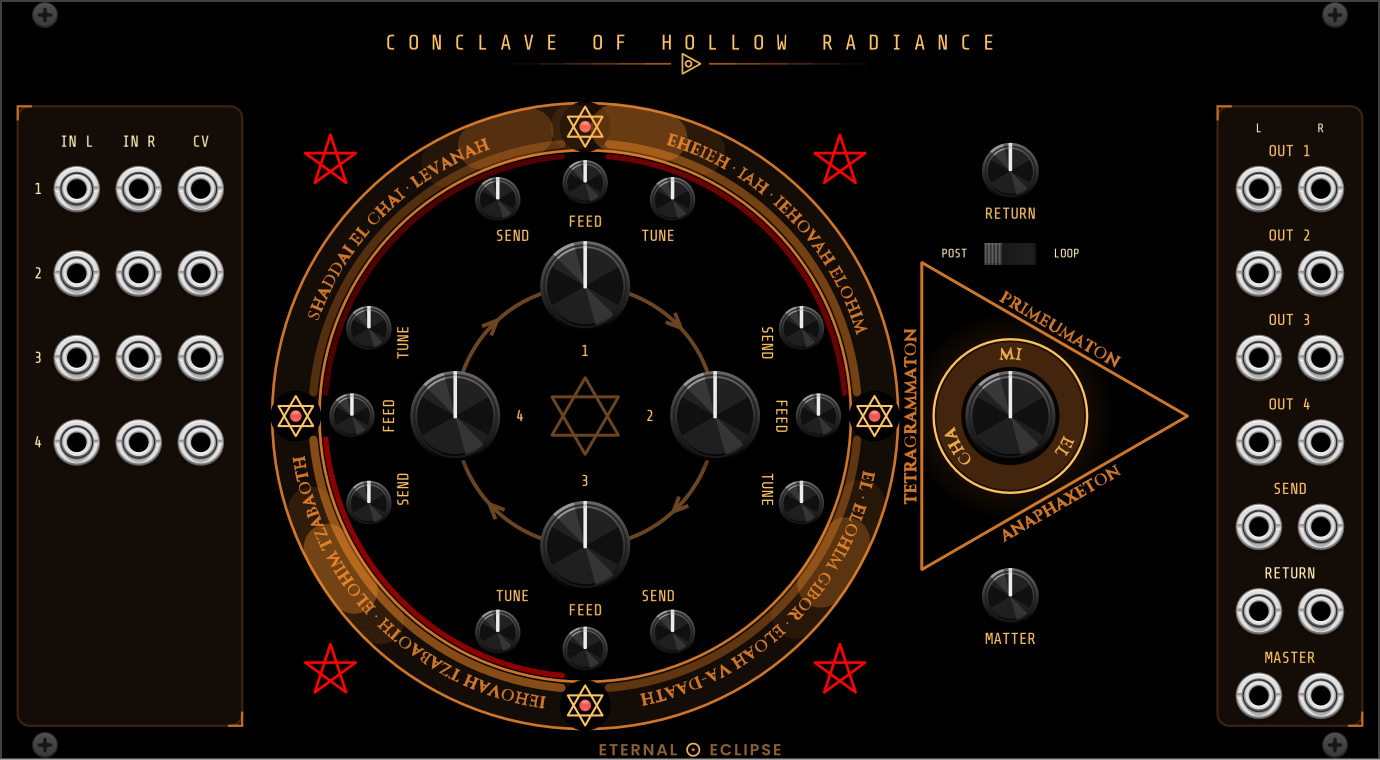
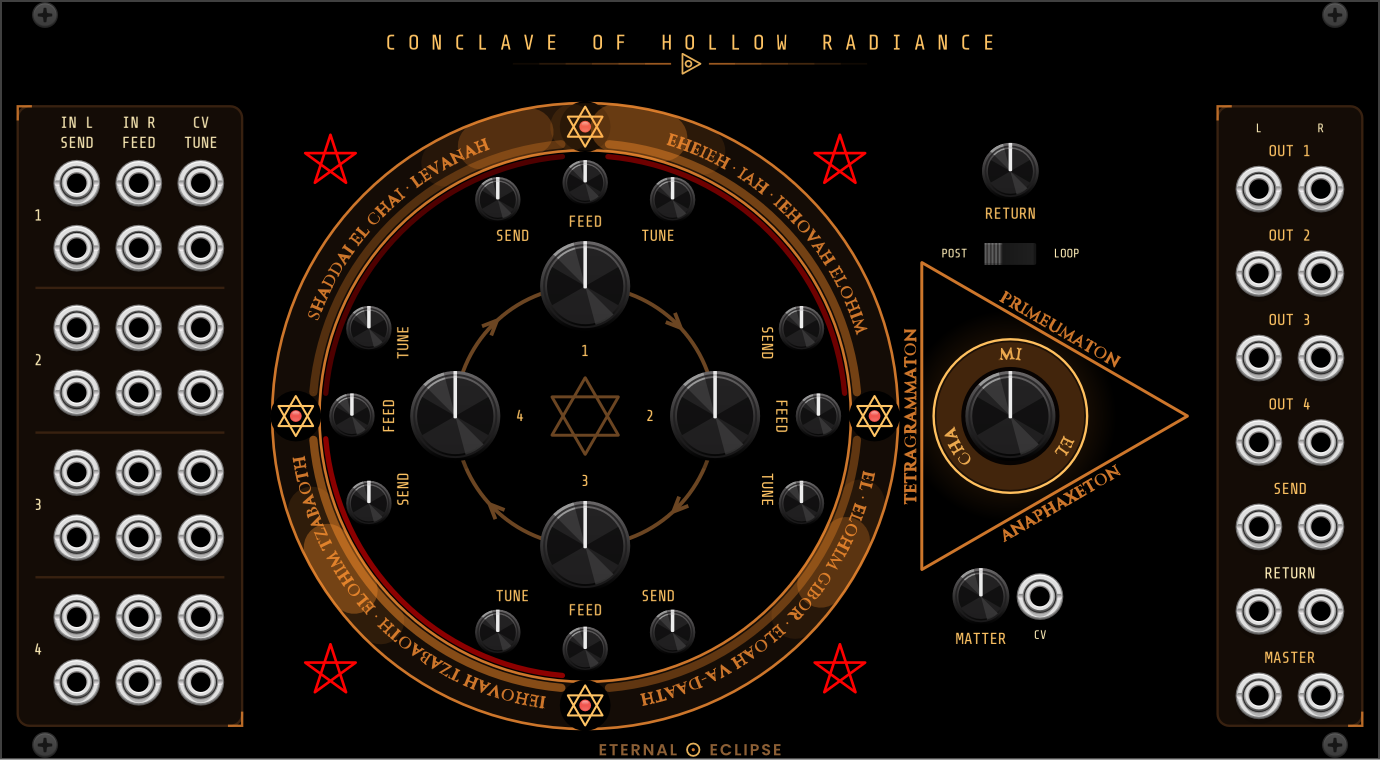
Conclave of Hollow Radiance: CV for SEND, FEED, TUNE and MATTER (OMN-102)
From Nick's first session with the module. Every channel gains three CV
inputs, SEND (10 V = full range), FEED (-5..+5 V sweeps the knob's whole
range) and TUNE (1 V/oct across the knob's 6.6 octaves), and MATTER gains
one (10 V = full range), read with the knobs once per block. The input bay
regroups by channel: IN L / IN R / level CV above, SEND / FEED / TUNE CV
below, a hairline between channels and the two header lines reading in
that order. The MATTER CV jack sits beside its knob under the Triangle.
README, changelog and the panel image follow.

Changed region(s): [[0.0312, 0.1513, 0.187, 0.9382], [0.6855, 0.7263, 0.779, 0.8474]]

diff --git a/src/ConclaveOfHollowRadiance/ConclaveOfHollowRadiance.cpp b/src/ConclaveOfHollowRadiance/ConclaveOfHollowRadiance.cpp
@@ -35,8 +35,12 @@ struct ConclaveOfHollowRadiance : Module {
 		ENUMS(INL_INPUTS, CHANNELS),
 		ENUMS(INR_INPUTS, CHANNELS),
 		ENUMS(CV_INPUTS, CHANNELS),
+		ENUMS(SEND_CV_INPUTS, CHANNELS),
+		ENUMS(FEED_CV_INPUTS, CHANNELS),
+		ENUMS(TUNE_CV_INPUTS, CHANNELS),
 		RETL_INPUT,
 		RETR_INPUT,
+		MATTER_INPUT,
 		INPUTS_LEN
 	};
 	enum OutputId {
@@ -88,6 +92,9 @@ struct ConclaveOfHollowRadiance : Module {
 			configInput(INL_INPUTS + n, ch + " left");
 			configInput(INR_INPUTS + n, ch + " right (normalled to left)");
 			configInput(CV_INPUTS + n, ch + " level CV (0-10 V)");
+			configInput(SEND_CV_INPUTS + n, ch + " send CV (10 V = full range)");
+			configInput(FEED_CV_INPUTS + n, ch + " feed CV (-5..+5 V = full range)");
+			configInput(TUNE_CV_INPUTS + n, ch + " tune CV (1 V/oct)");
 			configOutput(OUTL_OUTPUTS + n, ch + " left (unpatched: passes down the chain)");
 			configOutput(OUTR_OUTPUTS + n, ch + " right (unpatched: passes down the chain)");
 			configLight(FEED_LIGHTS + n, ch + " loop above unity");
@@ -98,6 +105,7 @@ struct ConclaveOfHollowRadiance : Module {
 		configParam(MASTER_PARAM, 0.f, 1.f, 1.f, "Master level", "%", 0.f, 100.f);
 		configInput(RETL_INPUT, "Return left");
 		configInput(RETR_INPUT, "Return right (normalled to left)");
+		configInput(MATTER_INPUT, "Matter CV (10 V = full range)");
 		configOutput(SENDL_OUTPUT, "Send left");
 		configOutput(SENDR_OUTPUT, "Send right");
 		configOutput(MASTERL_OUTPUT, "Master left (limited)");
@@ -111,16 +119,18 @@ struct ConclaveOfHollowRadiance : Module {
 		}
 	}
 
-	// Knob state the engine recomputes coefficients from (once per block)
+	// Knob and CV state the engine recomputes coefficients from (once per block)
 	conclave::CircleParams readParams() {
 		conclave::CircleParams p = circle.p;
+		const float octaves = std::log2(TUNE_MAX_HZ / TUNE_MIN_HZ); // the TUNE knob's span, for 1 V/oct
 		for (int n = 0; n < CHANNELS; n++) {
-			p.send[n] = params[SEND_PARAMS + n].getValue();
-			p.feed[n] = params[FEED_PARAMS + n].getValue() * FEED_MAX;
-			p.tuneHz[n] = TUNE_MIN_HZ * std::pow(TUNE_MAX_HZ / TUNE_MIN_HZ, params[TUNE_PARAMS + n].getValue());
+			p.send[n] = clamp(params[SEND_PARAMS + n].getValue() + inputs[SEND_CV_INPUTS + n].getVoltage() / 10.f, 0.f, 1.f);
+			p.feed[n] = clamp(params[FEED_PARAMS + n].getValue() + inputs[FEED_CV_INPUTS + n].getVoltage() / 5.f, -1.f, 1.f) * FEED_MAX;
+			float tune = clamp(params[TUNE_PARAMS + n].getValue() + inputs[TUNE_CV_INPUTS + n].getVoltage() / octaves, 0.f, 1.f);
+			p.tuneHz[n] = TUNE_MIN_HZ * std::pow(TUNE_MAX_HZ / TUNE_MIN_HZ, tune);
 			p.outPatched[n] = outputs[OUTL_OUTPUTS + n].isConnected() || outputs[OUTR_OUTPUTS + n].isConnected();
 		}
-		p.matter = params[MATTER_PARAM].getValue();
+		p.matter = clamp(params[MATTER_PARAM].getValue() + inputs[MATTER_INPUT].getVoltage() / 10.f, 0.f, 1.f);
 		p.ret = params[RETURN_PARAM].getValue();
 		p.loopReturn = params[LOOP_PARAM].getValue() > 0.5f;
 		p.master = params[MASTER_PARAM].getValue();
@@ -357,8 +367,10 @@ struct ConclaveOfHollowRadianceWidget : ModuleWidget {
 	static constexpr float R_NUMERAL = 11.f;            // channel numerals, inside the LEVEL knobs
 	static constexpr float R_TRIO_LABEL = 33.2f;        // the east and west clusters' turned labels
 	static constexpr float BAY_L_COL[3] = {13.f, 23.5f, 34.f};
+	static constexpr float BAY_L_ROW_A = 31.f, BAY_L_ROW_B = 42.f, BAY_L_GROUP = 24.5f; // a channel is two rows
 	static constexpr float BAY_R_COL[2] = {213.18f, 223.68f};
-	static constexpr float BAY_ROW0 = 32.f, BAY_STEP = 14.3f; // both bays share the row grid
+	static constexpr float BAY_ROW0 = 32.f, BAY_STEP = 14.3f;
+	static constexpr float MATTER_X = 166.1f, MATTER_CV_X = 176.1f, MATTER_Y = 101.f;
 
 	void addJack(float x, float y, int id, bool output) {
 		if (output)
@@ -415,20 +427,28 @@ struct ConclaveOfHollowRadianceWidget : ModuleWidget {
 		addParam(createParamCentered<eclipse::CKSSHorizontal>(mm2px(Vec(TRI_CX, 43.f)), module, ConclaveOfHollowRadiance::LOOP_PARAM));
 		eclipse::addLabel(this, Vec(TRI_CX - 9.5f, 43.f), "POST", eclipse::FINE_SIZE, eclipse::LABEL_COLOR);
 		eclipse::addLabel(this, Vec(TRI_CX + 9.5f, 43.f), "LOOP", eclipse::FINE_SIZE, eclipse::LABEL_COLOR);
-		addParam(createParamCentered<RoundBlackKnob>(mm2px(Vec(TRI_CX, 101.f)), module, ConclaveOfHollowRadiance::MATTER_PARAM));
-		eclipse::addLabel(this, Vec(TRI_CX, 101.f + 7.2f), "MATTER", eclipse::LABEL_SIZE, eclipse::ACCENT_COLOR);
+		addParam(createParamCentered<RoundBlackKnob>(mm2px(Vec(MATTER_X, MATTER_Y)), module, ConclaveOfHollowRadiance::MATTER_PARAM));
+		eclipse::addLabel(this, Vec(MATTER_X, MATTER_Y + 7.2f), "MATTER", eclipse::LABEL_SIZE, eclipse::ACCENT_COLOR);
+		addJack(MATTER_CV_X, MATTER_Y, ConclaveOfHollowRadiance::MATTER_INPUT, false);
+		eclipse::addLabel(this, Vec(MATTER_CV_X, MATTER_Y + 6.6f), "CV", eclipse::FINE_SIZE, eclipse::LABEL_COLOR);
 
-		// Input bay: IN L, IN R, CV per channel
-		eclipse::addLabel(this, Vec(BAY_L_COL[0], 24.f), "IN L", eclipse::LABEL_SIZE, eclipse::LABEL_COLOR);
-		eclipse::addLabel(this, Vec(BAY_L_COL[1], 24.f), "IN R", eclipse::LABEL_SIZE, eclipse::LABEL_COLOR);
-		eclipse::addLabel(this, Vec(BAY_L_COL[2], 24.f), "CV", eclipse::LABEL_SIZE, eclipse::LABEL_COLOR);
-		// Input rows share the output bay's grid, so IN 1 faces OUT 1 across the panel
+		// Input bay: each channel is two rows, IN L / IN R / level CV above
+		// and SEND / FEED / TUNE CV below; the two header lines read in that order
+		eclipse::addLabel(this, Vec(BAY_L_COL[0], 20.8f), "IN L", eclipse::LABEL_SIZE, eclipse::LABEL_COLOR);
+		eclipse::addLabel(this, Vec(BAY_L_COL[1], 20.8f), "IN R", eclipse::LABEL_SIZE, eclipse::LABEL_COLOR);
+		eclipse::addLabel(this, Vec(BAY_L_COL[2], 20.8f), "CV", eclipse::LABEL_SIZE, eclipse::LABEL_COLOR);
+		eclipse::addLabel(this, Vec(BAY_L_COL[0], 24.2f), "SEND", eclipse::LABEL_SIZE, eclipse::LABEL_COLOR);
+		eclipse::addLabel(this, Vec(BAY_L_COL[1], 24.2f), "FEED", eclipse::LABEL_SIZE, eclipse::LABEL_COLOR);
+		eclipse::addLabel(this, Vec(BAY_L_COL[2], 24.2f), "TUNE", eclipse::LABEL_SIZE, eclipse::LABEL_COLOR);
 		for (int n = 0; n < CHANNELS; n++) {
-			float y = BAY_ROW0 + n * BAY_STEP;
-			addJack(BAY_L_COL[0], y, ConclaveOfHollowRadiance::INL_INPUTS + n, false);
-			addJack(BAY_L_COL[1], y, ConclaveOfHollowRadiance::INR_INPUTS + n, false);
-			addJack(BAY_L_COL[2], y, ConclaveOfHollowRadiance::CV_INPUTS + n, false);
-			eclipse::addLabel(this, Vec(6.5f, y), string::f("%d", n + 1), eclipse::LABEL_SIZE, eclipse::LABEL_COLOR);
+			float ya = BAY_L_ROW_A + n * BAY_L_GROUP, yb = BAY_L_ROW_B + n * BAY_L_GROUP;
+			addJack(BAY_L_COL[0], ya, ConclaveOfHollowRadiance::INL_INPUTS + n, false);
+			addJack(BAY_L_COL[1], ya, ConclaveOfHollowRadiance::INR_INPUTS + n, false);
+			addJack(BAY_L_COL[2], ya, ConclaveOfHollowRadiance::CV_INPUTS + n, false);
+			addJack(BAY_L_COL[0], yb, ConclaveOfHollowRadiance::SEND_CV_INPUTS + n, false);
+			addJack(BAY_L_COL[1], yb, ConclaveOfHollowRadiance::FEED_CV_INPUTS + n, false);
+			addJack(BAY_L_COL[2], yb, ConclaveOfHollowRadiance::TUNE_CV_INPUTS + n, false);
+			eclipse::addLabel(this, Vec(6.5f, 0.5f * (ya + yb)), string::f("%d", n + 1), eclipse::LABEL_SIZE, eclipse::LABEL_COLOR);
 		}
 
 		// Output bay: the four direct outs, the send, the return, the master

diff --git a/tools/gen_conclave_panel.py b/tools/gen_conclave_panel.py
@@ -217,6 +217,10 @@ svg.append(glyph)
 svg.append("\n  <!-- Bays: inputs and level CV on the left; outs, loop and master on the right -->\n")
 svg.append(frame(BAY_L_X, BAY_L_W))
 svg.append(frame(BAY_R_X, BAY_R_W))
+# hairlines between the input bay's channel groups (two rows each; see the .cpp)
+for k in range(1, 4):
+    y = 31.0 + 24.5 * (k - 0.5) + 5.5   # midway between one group's lower row and the next group's upper row
+    svg.append(f'  <line x1="{f(BAY_L_X + 3)}" y1="{f(y)}" x2="{f(BAY_L_X + BAY_L_W - 3)}" y2="{f(y)}" stroke="{HAIR}" stroke-width="0.4"/>\n')
 svg.append(f'  <g fill="none" stroke="{COPPER}" stroke-width="0.4" stroke-opacity="0.9">\n')
 svg.append(brackets(BAY_L_X, BAY_L_W))
 svg.append(brackets(BAY_R_X, BAY_R_W))

diff --git a/README.md b/README.md
@@ -215,7 +215,9 @@ beads to the sunflower without firing a chord, and RUN holds everything in place
 
 A four-channel stereo mixer that is a plain mixer at rest and a feedback instrument
 when pushed. Each channel is a VCA: stereo IN (right normalled to left), a 0-10 V
-level CV, LEVEL, a post-fader SEND, and stereo OUT jacks. The channels are chained
+level CV, LEVEL, a post-fader SEND, and stereo OUT jacks, with CV inputs for SEND,
+FEED (-5 to +5 V sweeps the knob's range) and TUNE (1 V/oct) in the row beneath
+its audio inputs. The channels are chained
 the way Mutable's Veils chains its VCAs: an unpatched OUT passes the channel down
 into the next, and channel 4 falls into the master, so with nothing patched on the
 outs the master carries all four and patching an OUT takes that channel out of the
@@ -231,7 +233,8 @@ is off, and turning it sends that channel's chained output backward through a co
 into the channel before it, channel 1 into channel 4, so the circle only closes when
 every FEED is engaged. The comb is a short delay tuned by TUNE, 20 Hz to 2 kHz,
 darkened by the global MATTER (300 Hz at full dark, 12 kHz at full bright, never
-below four times the comb's pitch) and saturated, so a loop pushed past unity does
+below four times the comb's pitch, with a CV jack beside it) and saturated, so a
+loop pushed past unity does
 not blow up but sings at TUNE. Turned to the right it sings TUNE itself; turned to
 the left the feedback inverts and it sings an octave below. Past about two o'clock
 a loop crosses unity and will sing on its own with nothing patched into it: a

diff --git a/CHANGELOG.md b/CHANGELOG.md
@@ -11,7 +11,8 @@
   menu) that nothing gets past. Each channel's bipolar FEED sends its
   chained output backward round the ring through a tunable, saturating
   comb into the channel before it (TUNE 20 Hz-2 kHz, global MATTER
-  300 Hz-12 kHz); past unity the loop sings TUNE, or an octave down with
+  300 Hz-12 kHz); SEND, FEED and TUNE each take a CV per channel (TUNE at
+  1 V/oct) and MATTER has one too; past unity the loop sings TUNE, or an octave down with
   FEED inverted, and a quiet loop seeds itself so a ring started from
   silence lands on pitch. Per-channel exponential level curve in the
   menu. The panel is the Circle and Triangle of Solomon with the Triangle
